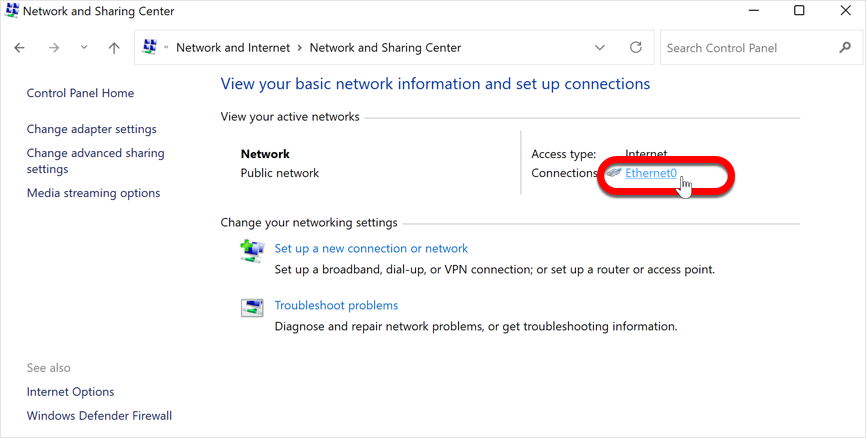
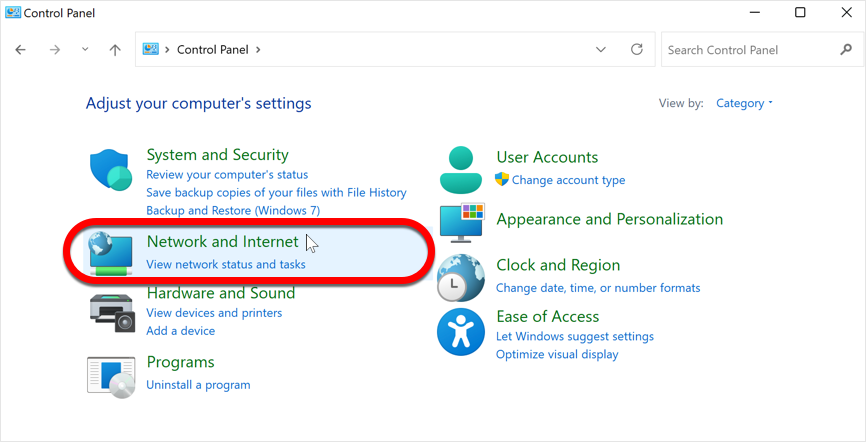
GITBOOK-140: No subject

diff --git a/windows-setup-guide/flclash-for-windows.md b/windows-setup-guide/flclash-for-windows.md
@@ -6,13 +6,13 @@ If you have trouble setting up, Please contact customer care on Telegram [Click 
 
 ***
 
-## Step 1: Download & Installation
+### **🚀 Step 1: Get FlClash on Your PC**
 
-Download and install the FlClash app on your windows PC using any of the links below &#x20;
+#### 1. Download FlClash
 
-[**Download Link 1**](https://app.alekwu.top/soft/windows/FlClash_windows.exe)
-
-[**Alternate Download Link**](https://www.mediafire.com/file/26587fu6hvhojzs/FlClash-0.8.80-windows.exe/file)
+Click one of these links:\
+[📥 **Download Link 1**](https://app.alekwu.top/soft/windows/FlClash_windows.exe)\
+[📥 **Alternate Download**](https://www.mediafire.com/file/26587fu6hvhojzs/FlClash-0.8.80-windows.exe/file)
 
 ***
 
@@ -23,27 +23,33 @@ Download and install the FlClash app on your windows PC using any of the links b
 
 ***
 
-## Step 3: Server setup
+### **🌍 Step 2: Add the Servers**
 
 {% hint style="success" %}
 Please choose your preferred setup method based on your needs:
 
-***
-
-* **One-Click Setup**: Quick and easy.
-* **Manual Setup**: For more customization and control.
+Choose **One-Click Setup** if you want it fast.\
+Choose **Manual Setup** only if One-Click doesn’t work.
 {% endhint %}
 
 ### Option 1 (Recommended): One-Click Setup
 
-1. Head to your [Dashboard](https://dash.coneapp.top)&#x20;
+1. [**Login to your account dashboard**](https://dash.coneapp.top/) **(Sign in with your registered email and password)**
 2. Scroll to the Quick Import section and tap on **Clash Subscribe**
 
 <figure><img src="../.gitbook/assets/1736864952658.png" alt="" width="563"><figcaption></figcaption></figure>
 
-4. A new prompt should appear; select the _Open Clash for Windows_
+3. A new prompt should appear; select the _Open FlClash for Windows_
 
-<figure><img src="../.gitbook/assets/image (54).png" alt="" width="430"><figcaption></figcaption></figure>
+<figure><img src="../.gitbook/assets/031e41d1-d962-4358-bcc1-a811ab924364.png" alt="" width="459"><figcaption></figcaption></figure>
+
+4. Click on **Confirm** in the FlClash application
+
+<figure><img src="../.gitbook/assets/f83d2e7d-8368-433f-a74c-e3842d588200.png" alt="" width="558"><figcaption></figcaption></figure>
+
+4. [**Go to Step 4 to connect**](flclash-for-windows.md#step-4-connect)
+
+
 
 {% hint style="warning" %}
 If One-Click setup does not work, please follow the manual setup below
@@ -53,7 +59,7 @@ If One-Click setup does not work, please follow the manual setup below
 
 ### &#x20;Option 2: Manual Setup
 
-1. Head to your [dashboard](https://dash.coneapp.top)
+1. [**Login to your account dashboard**](https://dash.coneapp.top/) **(Sign in with your registered email and password)**
 2. Scroll to the Quick Import section and tap on Copy
 
 <figure><img src="../.gitbook/assets/1736863160559 (1).png" alt="" width="563"><figcaption></figcaption></figure>

diff --git a/android-setup-guide/README.md b/android-setup-guide/README.md
@@ -1,10 +1,6 @@
 # Android Setup Guide
 
-Welcome to the Android setup guide for our service. We offer three different apps to suit your needs:
-
-* [**Cone App**](recommended-cone-app-android.md): Our dedicated Android app for a streamlined experience.
-* [**Clash for Android**](clash-for-android.md): A versatile tool with advanced features for power users.
-* [**Surfboard**](surfboard-for-android.md): Another powerful proxy tool with advanced features.
+Welcome to the Android setup guide for our service. We offer different apps to suit your needs.&#x20;
 
 Choose the app that best fits your requirements, and follow the setup instructions provided.
 
@@ -12,10 +8,14 @@ Choose the app that best fits your requirements, and follow the setup instructio
 [recommended-cone-app-android.md](recommended-cone-app-android.md)
 {% endcontent-ref %}
 
-{% content-ref url="clash-for-android.md" %}
-[clash-for-android.md](clash-for-android.md)
+{% content-ref url="flclash-for-android.md" %}
+[flclash-for-android.md](flclash-for-android.md)
 {% endcontent-ref %}
 
 {% content-ref url="surfboard-for-android.md" %}
 [surfboard-for-android.md](surfboard-for-android.md)
+{% endcontent-ref %}
+
+{% content-ref url="clash-for-android.md" %}
+[clash-for-android.md](clash-for-android.md)
 {% endcontent-ref %}

diff --git a/troubleshooting/change-your-dns-server/windows.md b/troubleshooting/change-your-dns-server/windows.md
@@ -14,15 +14,15 @@ In Control Panel, click on “Network and Internet”and then “Network and Sha
 
 
 
-<figure><img src="../../.gitbook/assets/image.png" alt=""><figcaption></figcaption></figure>
+<figure><img src="../../.gitbook/assets/image (2).png" alt=""><figcaption></figcaption></figure>
 
-<figure><img src="../../.gitbook/assets/image (1).png" alt=""><figcaption></figcaption></figure>
+<figure><img src="../../.gitbook/assets/image (1) (1).png" alt=""><figcaption></figcaption></figure>
 
 ### **Step 3: Choose the connection**
 
 In the Network and Sharing Center, choose the internet connection you want to change the DNS settings for. Your active connection is usually named “Wi-Fi” or “Ethernet” and is located on the right-hand side of the window.
 
-<figure><img src="../../.gitbook/assets/image (2).png" alt=""><figcaption></figcaption></figure>
+<figure><img src="../../.gitbook/assets/image (2) (1).png" alt=""><figcaption></figcaption></figure>
 
 ### **Step 4: Change adapter settings**
 

diff --git a/SUMMARY.md b/SUMMARY.md
@@ -24,9 +24,9 @@
   * [Clash X for Mac](mac-os-setup-guide/clash-x-for-mac-1.md)
 * [Windows Setup Guide](windows-setup-guide/README.md)
   * [(Recommended) Cone App - Windows](windows-setup-guide/recommended-cone-app-windows.md)
+  * [FlClash for Windows](windows-setup-guide/flclash-for-windows.md)
   * [Netch for Windows](windows-setup-guide/netch-for-windows.md)
   * [Clash for Windows](windows-setup-guide/clash-for-windows.md)
-  * [FlClash for Windows](windows-setup-guide/flclash-for-windows.md)
 * [Troubleshooting](troubleshooting/README.md)
   * [Installation Troubleshooting](troubleshooting/installation-troubleshooting.md)
   * [Change your DNS server](troubleshooting/change-your-dns-server/README.md)

diff --git a/mac-os-setup-guide/flclash-for-mac.md b/mac-os-setup-guide/flclash-for-mac.md
@@ -12,7 +12,7 @@ If you have trouble setting up, Please contact customer care on Telegram [Click 
 
 ## Step 1: Download & Install on Mac
 
-Download the Clash app on your Mac computer using the link(s) below;
+Download the FLClash app on your Mac computer using the link(s) below;
 
 [**Download Link 1**](https://app.alekwu.top/soft/mac/clashX.dmg)
 

diff --git a/mac-os-setup-guide/README.md b/mac-os-setup-guide/README.md
@@ -14,3 +14,7 @@ Choose the app that best fits your requirements, and follow the setup instructio
 {% content-ref url="clash-x-for-mac-1.md" %}
 [clash-x-for-mac-1.md](clash-x-for-mac-1.md)
 {% endcontent-ref %}
+
+{% content-ref url="flclash-for-mac.md" %}
+[flclash-for-mac.md](flclash-for-mac.md)
+{% endcontent-ref %}
